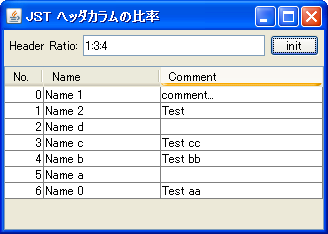
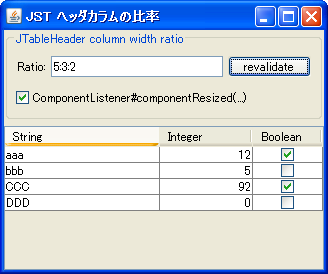
Add a checkbox to control resizeing the JScrollPane.

diff --git a/trunk/HeaderRatio/src/java/example/MainPanel.java b/trunk/HeaderRatio/src/java/example/MainPanel.java
@@ -9,76 +9,78 @@ import javax.swing.*;
 import javax.swing.table.*;
 
 public class MainPanel extends JPanel {
-    private final JTextField field = new JTextField("1:2:5");
-    private final JTable table;
+    private final String[] columnNames = {"String", "Integer", "Boolean"};
+    private final Object[][] data = {
+        {"aaa", 12, true}, {"bbb", 5, false},
+        {"CCC", 92, true}, {"DDD", 0, false}
+    };
+    private final DefaultTableModel model = new DefaultTableModel(data, columnNames) {
+        @Override public Class<?> getColumnClass(int column) {
+            return getValueAt(0, column).getClass();
+        }
+    };
+    private final JTable table = new JTable(model);
+    private final JTextField field = new JTextField("5:3:2");
+    private final JCheckBox check  = new JCheckBox("ComponentListener#componentResized(...)", true);
     public MainPanel() {
         super(new BorderLayout(5,5));
-        TestModel model = new TestModel();
-        model.addTest(new Test("Name 1", "comment..."));
-        model.addTest(new Test("Name 2", "Test"));
-        model.addTest(new Test("Name d", ""));
-        model.addTest(new Test("Name c", "Test cc"));
-        model.addTest(new Test("Name b", "Test bb"));
-        model.addTest(new Test("Name a", ""));
-        model.addTest(new Test("Name 0", "Test aa"));
-
-        table = new JTable(model);
-
-        JPanel p = new JPanel(new BorderLayout(5,5));
-        p.setBorder(BorderFactory.createEmptyBorder(5,5,5,5));
-        p.add(new JLabel("Header Ratio:"), BorderLayout.WEST);
-        p.add(field);
-        p.add(new JButton(new AbstractAction("init") {
-            @Override public void actionPerformed(ActionEvent ae) {
-                setRaito();
-            }
-        }), BorderLayout.EAST);
+        table.setAutoCreateRowSorter(true);
 
         JScrollPane scrollPane = new JScrollPane(table);
         scrollPane.addComponentListener(new ComponentAdapter() {
             @Override public void componentResized(ComponentEvent e) {
-                setRaito();
+                if(check.isSelected()) setTableHeaderColumnRaito();
             }
         });
-        add(p, BorderLayout.NORTH);
+        add(makeSettingPanel(), BorderLayout.NORTH);
         add(scrollPane);
-        setPreferredSize(new Dimension(320, 200));
-        setRaito();
+        setPreferredSize(new Dimension(320, 240));
     }
-    private void setRaito() {
+    private JPanel makeSettingPanel() {
+        JPanel p = new JPanel(new BorderLayout(5,5));
+        p.setBorder(BorderFactory.createEmptyBorder(5,5,5,5));
+        p.add(new JLabel("Ratio:"), BorderLayout.WEST);
+        p.add(field);
+        p.add(new JButton(new AbstractAction("revalidate") {
+            @Override public void actionPerformed(ActionEvent ae) {
+                setTableHeaderColumnRaito();
+            }
+        }), BorderLayout.EAST);
+        JPanel panel = new JPanel(new GridLayout(2,1));
+        panel.setBorder(BorderFactory.createTitledBorder("JTableHeader column width ratio"));
+        panel.add(p);
+        panel.add(check);
+        return panel;
+    }
+    private void setTableHeaderColumnRaito() {
         int[] list = getWidthRaitoArray();
-        int total = getTotalColumnWidth(table);
-        int raito = total/getRaitoTotal(table, list);
+        //System.out.println("a: "+table.getColumnModel().getTotalColumnWidth());
+        //System.out.println("b: "+table.getSize().width);
+        int total = table.getSize().width; //table.getColumnModel().getTotalColumnWidth();
+        int raito = total/getRaitoTotal(list);
         for(int i=0;i<table.getColumnModel().getColumnCount()-1;i++) {
             TableColumn col = table.getColumnModel().getColumn(i);
             int colwidth = list[i]*raito;
-            col.setMaxWidth(colwidth);
-            total = total - colwidth;
+            //col.setMaxWidth(colwidth);
+            col.setPreferredWidth(colwidth);
+            total -= colwidth;
         }
-        table.getColumnModel().getColumn(table.getColumnModel().getColumnCount()-1).setMaxWidth(total);
+        //table.getColumnModel().getColumn(table.getColumnModel().getColumnCount()-1).setMaxWidth(total);
+        table.getColumnModel().getColumn(table.getColumnModel().getColumnCount()-1).setPreferredWidth(total);
         table.revalidate();
     }
-    private int getRaitoTotal(JTable table, int[] list) {
-        int wr = 0;
-        for(int i=0;i<list.length;i++) {
-            wr = wr + list[i];
-        }
-        return wr;
+    private static int getRaitoTotal(int[] list) {
+        int w = 0;
+        for(int i:list) w += i;
+        return w;
     }
-    private int getTotalColumnWidth(JTable table) {
-        int tablewidth = table.getBounds(null).width;
-        if(tablewidth==0) tablewidth = 512;
-        return tablewidth;
-    }
-
     private int[] getWidthRaitoArray() {
         StringTokenizer st = new StringTokenizer(field.getText(), ":");
         int[] list = {1,1,1};
+        int i = 0;
         try{
-            int i = 0;
             while(st.hasMoreTokens() && i<list.length) {
-                list[i] = (new Integer(st.nextToken().trim())).intValue();
-                i++;
+                list[i++] = Integer.valueOf(st.nextToken().trim()).intValue();
             }
         }catch(final NumberFormatException nfe) {
             java.awt.Toolkit.getDefaultToolkit().beep();
@@ -87,36 +89,6 @@ public class MainPanel extends JPanel {
         }
         return list;
     }
-
-//     private void setRaito_xxx() {
-//         int[] list = getWidthRaitoArray();
-//         int total = table.getColumnModel().getTotalColumnWidth();;
-//         int raito = total/getRaitoTotal(table, list);
-// //                 System.out.println("---------------------------");
-// //                 for(int i=0;i<table.getColumnModel().getColumnCount();i++) {
-// //                     TableColumn col = table.getColumnModel().getColumn(i);
-// //                     int colwidth = col.getWidth();
-// //                     System.out.println(""+i+": "+colwidth);
-// //                 }
-// //                 System.out.println("---------");
-//         for(int i=0;i<table.getColumnModel().getColumnCount()-1;i++) {
-//             TableColumn col = table.getColumnModel().getColumn(i);
-//             int colwidth = list[i]*raito; // - table.getColumnModel().getColumnMargin();
-//             col.setMinWidth(0);
-//             col.setMaxWidth(Integer.MAX_VALUE);
-//             col.setPreferredWidth(colwidth);
-//             total = total - colwidth;
-//             //    System.out.println(""+i+": "+colwidth);
-//         }
-//         System.out.println("2: "+(int)(list[2]*raito));
-//         System.out.println("l: "+total);
-//
-//         table.getColumnModel().getColumn(table.getColumnModel().getColumnCount()-1).setPreferredWidth(total);
-//         table.getColumnModel().getColumn(table.getColumnModel().getColumnCount()-1).setMinWidth(0);
-//         table.getColumnModel().getColumn(table.getColumnModel().getColumnCount()-1).setMaxWidth(Integer.MAX_VALUE);
-//
-//         table.revalidate();
-//     }
 
     public static void main(String[] args) {
         EventQueue.invokeLater(new Runnable() {
